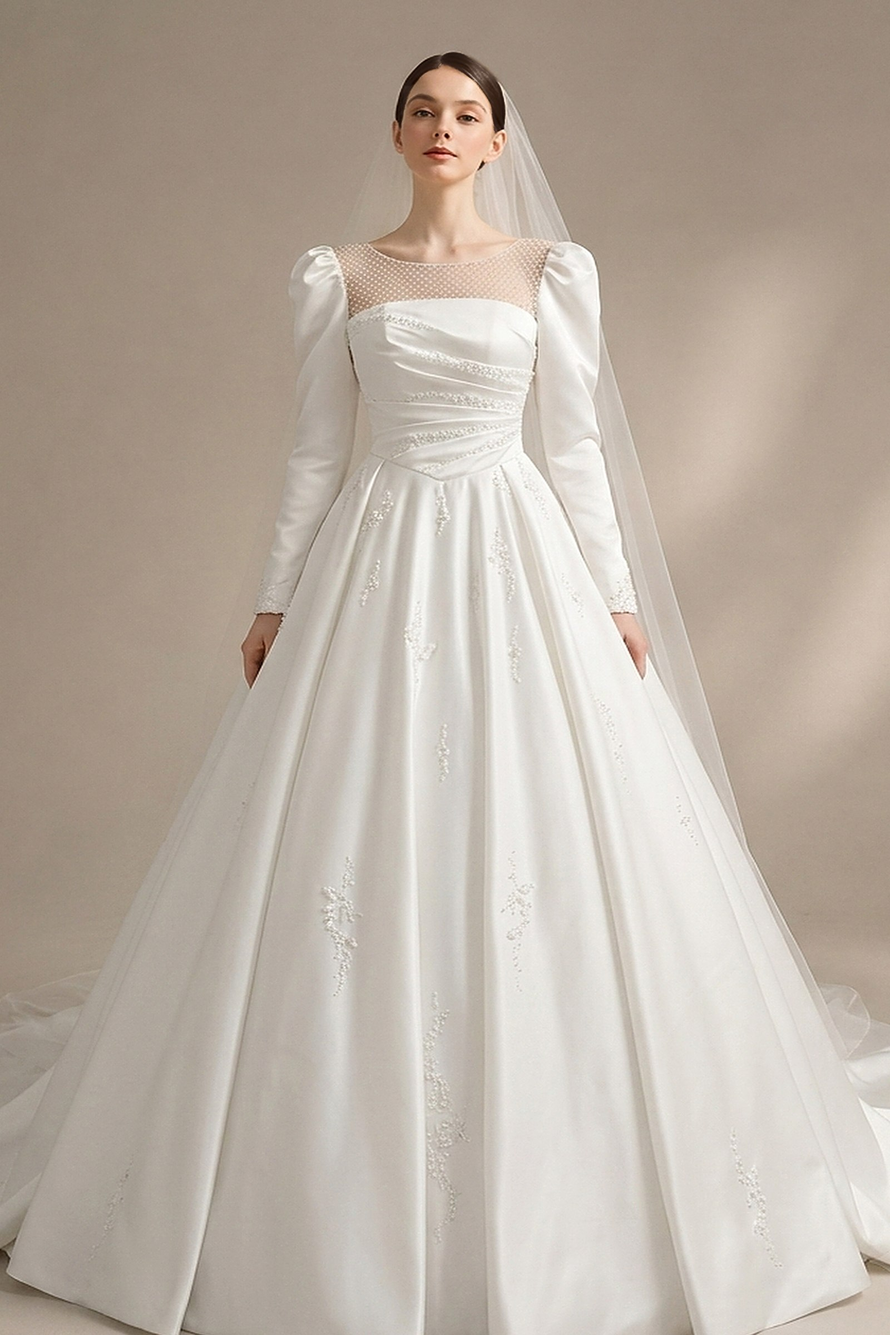
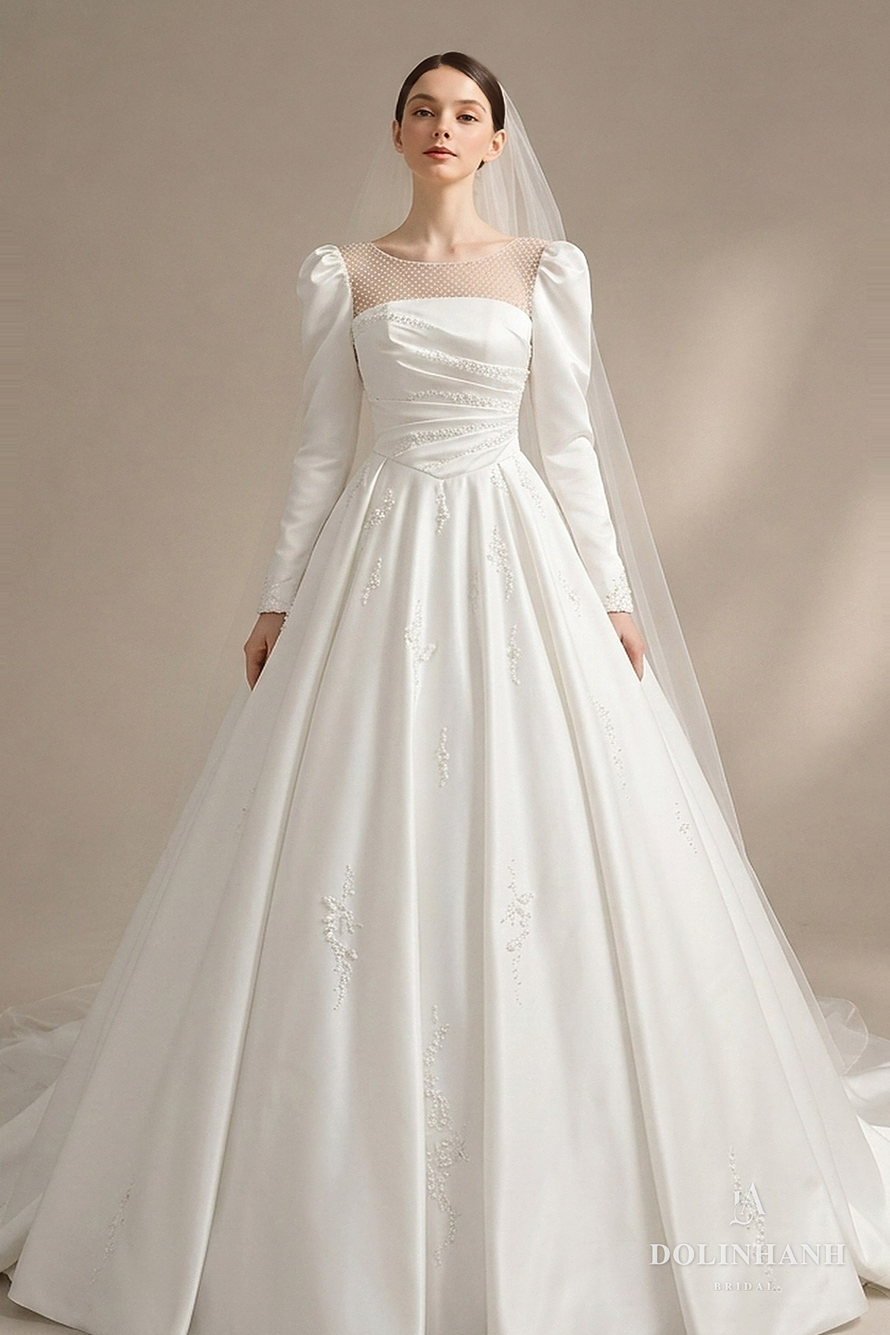
V263: MS 158: shoulders 5% narrower

diff --git a/bo-suu-tap.html b/bo-suu-tap.html
@@ -1714,7 +1714,7 @@ src="https://www.facebook.com/tr?id=1358640082651240&ev=PageView&noscript=1"
         </figure>
         <figure data-kin="1" data-dang="a-line" data-mood="timeless" data-coso="hcm">
           <div class="sl-khung">
-            <div class="sl" data-img="anh/vay/ms158/01.jpg"></div>
+            <div class="sl" data-img="anh/vay/ms158/01.jpg?v=0511"></div>
           </div>
           <figcaption><span class="kind" data-en="Dolinhanh Bridal" data-zh="Dolinhanh Bridal">Dolinhanh Bridal</span><span class="nm">MS 158</span><span class="de" data-en="Long-sleeve satin, square neckline" data-zh="长袖缎面，方领">Satin tay dài cổ vuông</span><span class="gia">US$1,080</span></figcaption>
         </figure>
